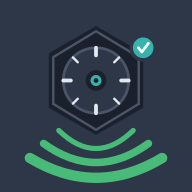
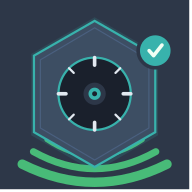
novo icone

diff --git a/server/static/index.html b/server/static/index.html
@@ -7,7 +7,7 @@
 <meta name="apple-mobile-web-app-capable" content="yes">
 <meta name="apple-mobile-web-app-status-bar-style" content="black-translucent">
 <meta name="apple-mobile-web-app-title" content="NestVault">
-<link rel="icon" type="image/png" href="/static/icon_web.png">
+<link rel="icon" type="image/svg+xml" href="/static/icon_web.svg">
 <link rel="manifest" href="/static/manifest.json">
 <title>NestVault</title>
 <link href="https://fonts.googleapis.com/css2?family=IBM+Plex+Mono:wght@300;400;500;600&family=IBM+Plex+Sans:wght@300;400;500&display=swap" rel="stylesheet">